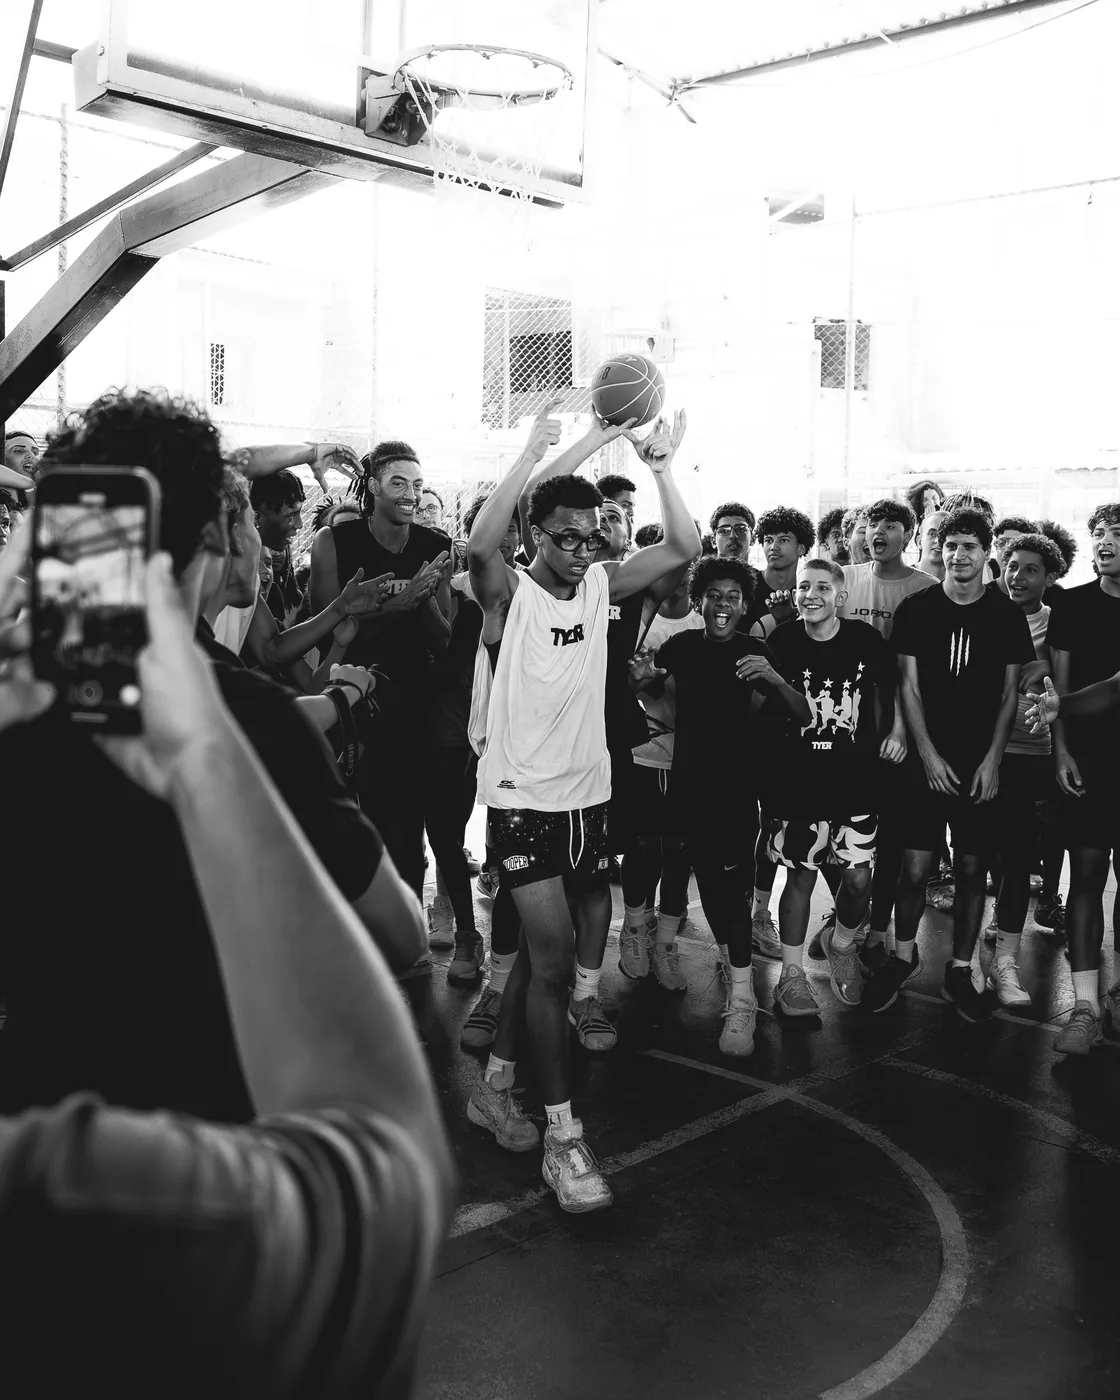
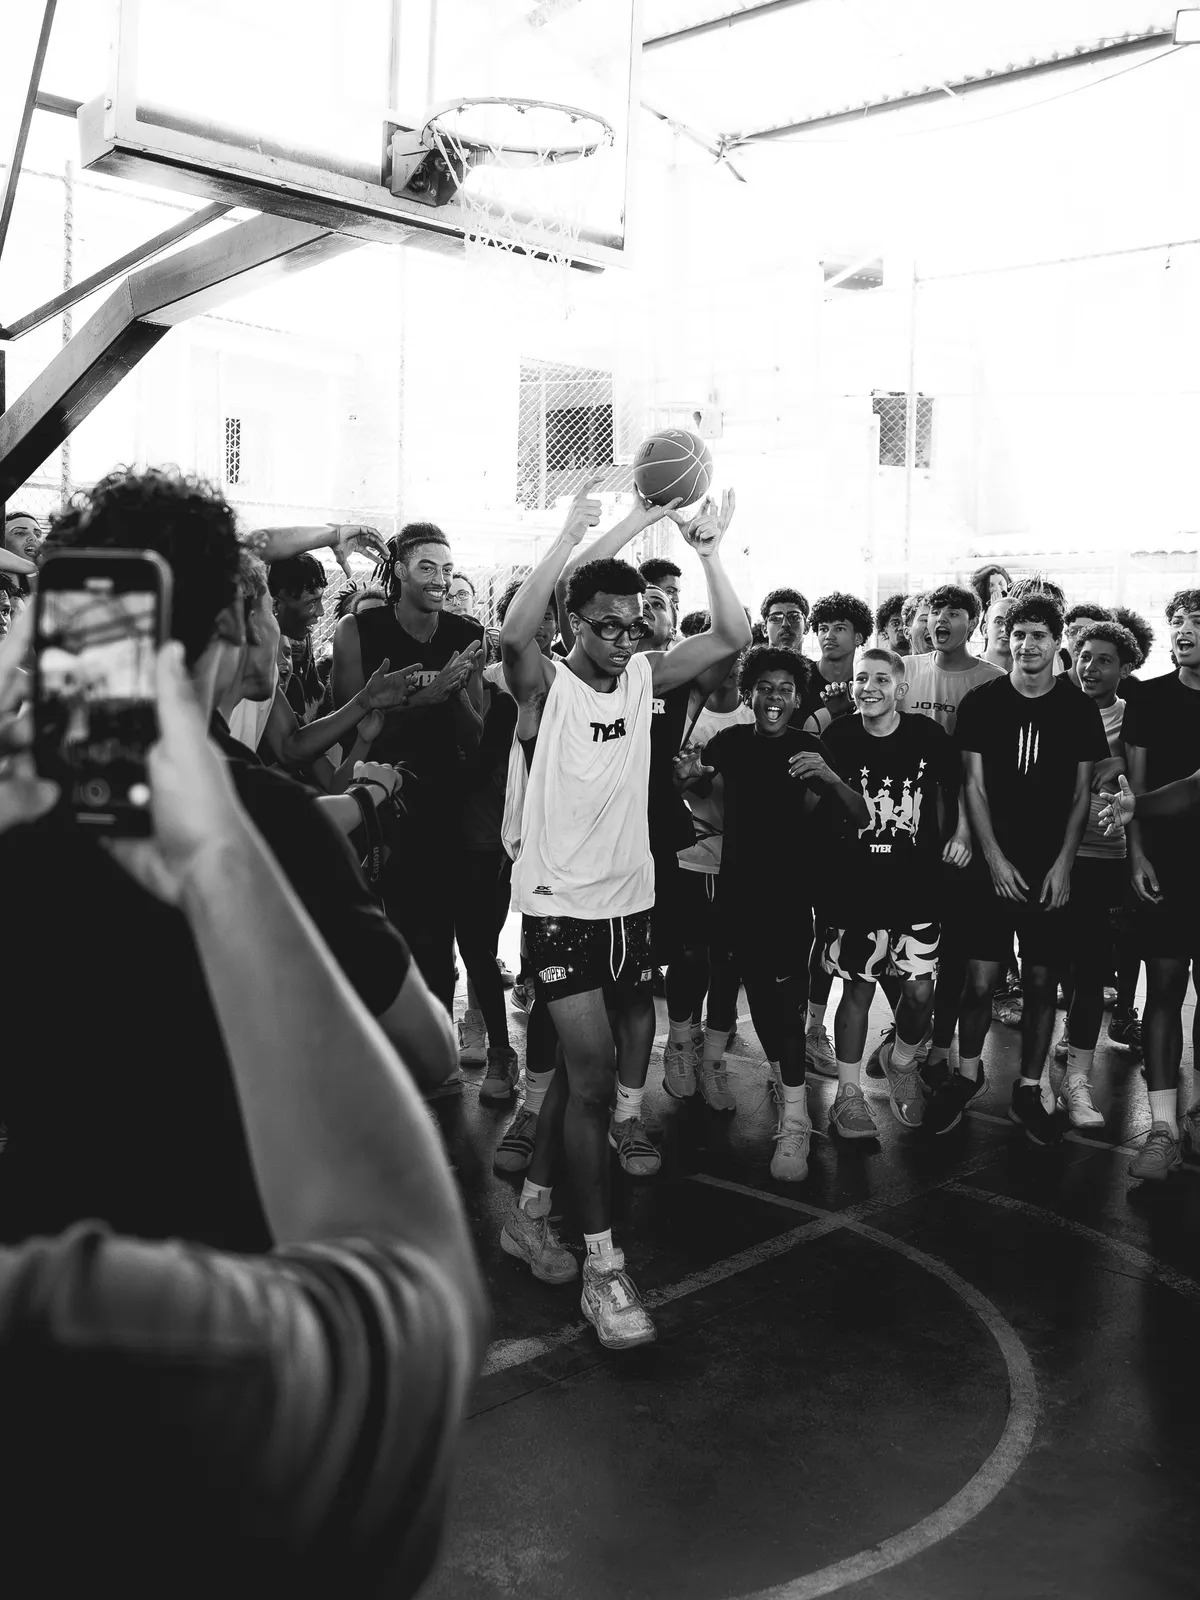
fix: centraliza carrossel da home no mobile, troca imagem da história e importa produtos
- Mais Vendidos (mobile): arrows sobrepostas e simétricas sobre o carrossel,
  card alinhado às margens de 20px da página via scroll-padding-inline
- Fundo do Mais Vendidos reenquadrado com o jogador no centro (1MB → 74KB)
- Nossa História: imagem nova convertida para webp (5,6MB de download → 135KB)
- Redes sociais: label vira "Tyer BasketBall" e, no mobile, ícones ficam
  acima do banner do YouTube
- Publishable key do Medusa corrigida em todo o frontend (a antiga era
  rejeitada pelo backend do homolog — produtos/Drops não carregavam)
- CSV de importação ajustado em backend/data (coleções novas, canal de
  vendas, status published, thumbnails, opções Default)
- Medusa homolog provisionado: região BRL, shipping profile, stock location,
  9 coleções (handles = artes de public/collections) e 20 produtos com
  variantes e estoque

diff --git a/frontend/src/scripts/side-cart-client.ts b/frontend/src/scripts/side-cart-client.ts
@@ -99,7 +99,7 @@ function renderFeedback(message: string, tone: string) {
 
 async function fetchRegionId() {
   const base = '';
-  const key = 'pk_56a7e1a252f159acbc6c590a025dac7a69d4c869fd621f0273ad10c2a87e3975';
+  const key = 'pk_c02aca4c002484d85c530e07b7a9cd4bfcc515fe4b6bde15d90fc086c84d2674';
   const res = await fetch(`${base}/store/regions?limit=1`, { headers: { 'x-publishable-api-key': key } });
   const data = await res.json();
   return data?.regions?.[0]?.id || null;
@@ -107,7 +107,7 @@ async function fetchRegionId() {
 
 async function syncRemoteCart(items: Array<{ variantId: string; quantity: number }>) {
   const base = '';
-  const key = 'pk_56a7e1a252f159acbc6c590a025dac7a69d4c869fd621f0273ad10c2a87e3975';
+  const key = 'pk_c02aca4c002484d85c530e07b7a9cd4bfcc515fe4b6bde15d90fc086c84d2674';
   const regionId = await fetchRegionId();
   if (!regionId) throw new Error('Sem regiao');
   const created = await fetch(`${base}/store/carts`, {

diff --git a/frontend/src/lib/cart.ts b/frontend/src/lib/cart.ts
@@ -153,7 +153,7 @@ type VariantSnapshot = {
 };
 
 function getStoreConfig() {
-  const key = 'pk_56a7e1a252f159acbc6c590a025dac7a69d4c869fd621f0273ad10c2a87e3975';
+  const key = 'pk_c02aca4c002484d85c530e07b7a9cd4bfcc515fe4b6bde15d90fc086c84d2674';
   if (typeof window === 'undefined') {
     return { base: 'http://localhost:9003', key };
   }
